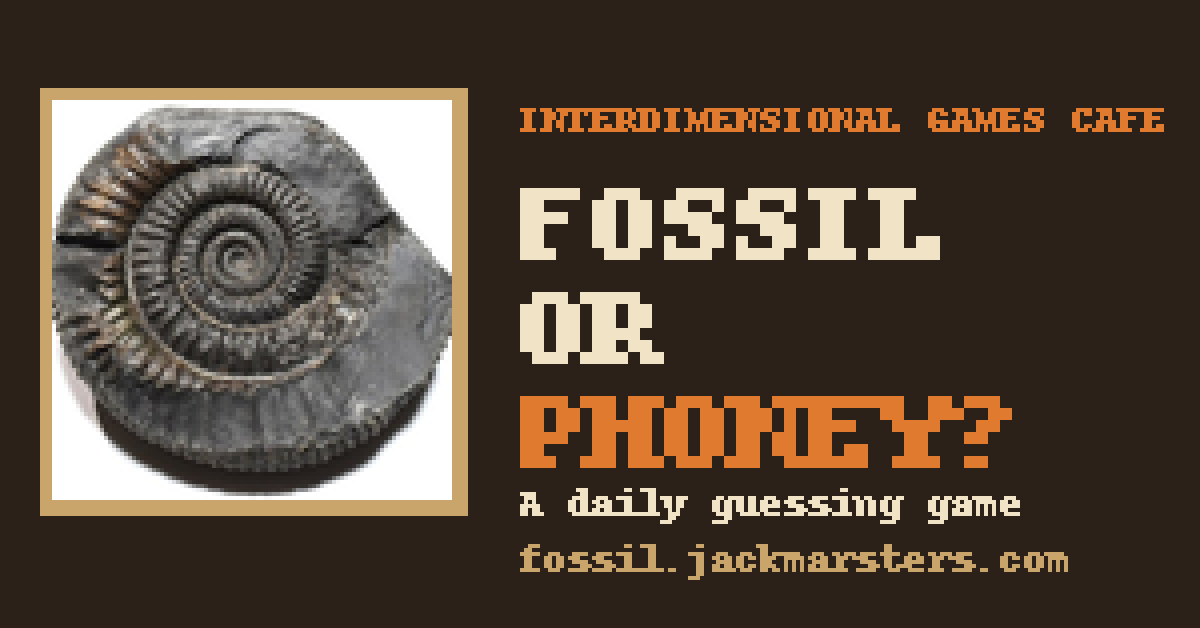
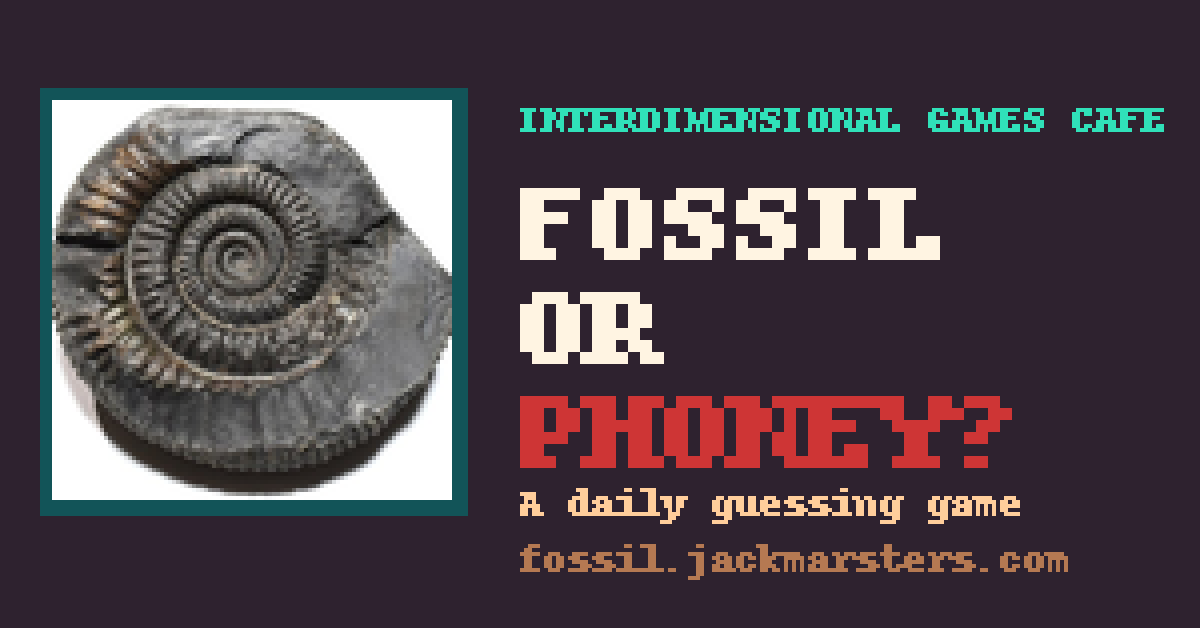
Restyle with Jersey 10 and the Quintino Pixels UI pack
Matches fiddle.jackmarsters.com: Jersey 10 for all text (scaled 115%,
no fake bold), parchment 9-slice panels, the dark teal table frame
around photos, teal/gold/red/wood pack buttons (Fossil gold, Phoney
red), the scroll banner for the test mode bar, and the pixel mouse
pointers. Colours follow the pack's palette; the link-preview card is
recoloured to match.

diff --git a/css/style.css b/css/style.css
@@ -1,22 +1,46 @@
 /* Fossil or Phoney: styles.
-   All colours live here as variables, so the theme can be changed in one place. */
+   All colours live here as variables, so the theme can be changed in one place.
+   Frames and buttons come from the Pixel Art Fantasy UI Pack by Quintino Pixels
+   (CC0), the same pack as fiddle.jackmarsters.com. Each piece is a stretchable
+   9-slice frame (border-image), so it fits any size with crisp pixels. */
 
 :root {
-  --bg: #2b2118;           /* dark earth */
-  --panel: #f1e3c6;        /* sandstone */
-  --panel-edge: #c9a46b;   /* darker sandstone */
-  --panel-deep: #e2cda3;   /* shaded sandstone */
-  --ink: #2b2118;
-  --ink-soft: #6b5640;
-  --accent: #e07a2e;       /* amber orange */
-  --accent-dark: #a9541a;
-  --alt: #5d7a4a;          /* moss green */
-  --alt-dark: #3e5531;
-  --light: #f1e3c6;
+  --bg: #2e222f;           /* the pack's dark outline colour */
+  --panel: #ffce9b;        /* parchment */
+  --panel-edge: #b57952;   /* parchment edge */
+  --panel-deep: #f2b880;   /* shaded parchment */
+  --ink: #3b2410;          /* dark brown text */
+  --ink-soft: #7a5536;
+  --accent: #b8430a;       /* burnt orange, readable on parchment */
+  --accent-dark: #8a2f05;
+  --alt: #125458;          /* deep teal from the table frame */
+  --alt-dark: #0b3638;
+  --teal: #30e1b9;
+  --light: #fff4e2;
   --pixel: 4px;            /* thickness of pixel-style borders */
 
-  --font-display: "Jersey 10", system-ui, sans-serif;
-  --font-body: "Pixelify Sans", system-ui, sans-serif;
+  --font-display: "FOP Jersey", "Jersey 10", system-ui, sans-serif;
+  --font-body: "FOP Jersey", "Jersey 10", system-ui, sans-serif;
+}
+
+/* Font: Jersey 10 (Google Fonts, Open Font License) for everything, as on
+   fiddle.jackmarsters.com. It's drawn smaller than most fonts, so "FOP Jersey"
+   scales it 115%. If these files ever move, the plain "Jersey 10" from the
+   Google Fonts link takes over (just a little smaller). It has only one
+   weight, so fake bold is switched off and bold text uses colour instead. */
+@font-face {
+  font-family: "FOP Jersey";
+  src: url("https://fonts.gstatic.com/s/jersey10/v4/GftH7vZKsggXMf9n_J5n_5jh.woff2") format("woff2");
+  unicode-range: U+0000-00FF, U+0131, U+0152-0153, U+02BB-02BC, U+02C6, U+02DA, U+02DC, U+0304, U+0308, U+0329, U+2000-206F, U+20AC, U+2122, U+2191, U+2193, U+2212, U+2215, U+FEFF, U+FFFD;
+  size-adjust: 115%;
+  font-display: swap;
+}
+@font-face {
+  font-family: "FOP Jersey";
+  src: url("https://fonts.gstatic.com/s/jersey10/v4/GftH7vZKsggXMf9n_J5n8Zjh-1w.woff2") format("woff2");
+  unicode-range: U+0100-02BA, U+02BD-02C5, U+02C7-02CC, U+02CE-02D7, U+02DD-02FF, U+1D00-1DBF, U+1E00-1E9F, U+1EF2-1EFF, U+2020, U+20A0-20AB, U+20AD-20C4, U+2113, U+2C60-2C7F, U+A720-A7FF;
+  size-adjust: 115%;
+  font-display: swap;
 }
 
 * { box-sizing: border-box; }
@@ -31,9 +55,17 @@ body {
   background: var(--bg);
   color: var(--ink);
   font-family: var(--font-body);
-  font-size: 1.05rem;
-  line-height: 1.5;
+  font-size: 1.1rem;
+  line-height: 1.35;
+  letter-spacing: 0.02em;
+  font-synthesis: none;
+  font-variant-ligatures: none;
 }
+b, strong { font-weight: normal; color: var(--accent-dark); }
+
+/* Pixel mouse pointers, as on fiddle.jackmarsters.com. */
+html, body { cursor: url("../assets/ui/cursor-arrow.png") 6 2, auto; }
+button, a, select, summary, input[type="range"] { cursor: url("../assets/ui/cursor-hand.png") 12 1, pointer; }
 
 .card {
   width: 100%;
@@ -50,7 +82,7 @@ footer {
 
 .eyebrow {
   margin: 0;
-  color: var(--accent);
+  color: var(--teal);
   font-size: 0.9rem;
   letter-spacing: 0.08em;
   text-transform: uppercase;
@@ -76,12 +108,16 @@ h2 {
 
 /* ---------- Panels ---------- */
 
+/* Parchment frame from the UI pack. */
 .panel {
-  background: var(--panel);
-  border: var(--pixel) solid var(--panel-edge);
-  /* A hard drop shadow with no blur keeps the pixel-art look. */
-  box-shadow: var(--pixel) var(--pixel) 0 #000;
-  padding: 16px 20px;
+  border-style: solid;
+  border-width: 16px;
+  border-image: url("../assets/ui/panel_parchment.png") 8 fill / 16px stretch;
+  image-rendering: pixelated;
+  padding: 6px 10px 8px;
+}
+@media (max-width: 480px) {
+  .panel { border-width: 12px; border-image-width: 12px; padding: 4px 6px 6px; }
 }
 
 .panel p { margin: 0 0 8px; }
@@ -112,13 +148,16 @@ h2 {
 
 /* ---------- Photos ---------- */
 
+/* Photos sit in the pack's dark teal "display case" frame. */
 .photo {
   display: block;
   width: 100%;
   aspect-ratio: 4 / 3;
   margin: 8px 0 12px;
-  border: var(--pixel) solid var(--ink);
-  background: var(--ink);
+  border-style: solid;
+  border-width: 18px;
+  border-image: url("../assets/ui/panel_table.png") 12 fill / 18px stretch;
+  background: var(--alt);
   /* Shows the whole photo, letterboxed on the dark background, whatever its shape. */
   object-fit: contain;
   image-rendering: pixelated;
@@ -138,36 +177,36 @@ h2 {
   border: 2px solid var(--panel-edge);
 }
 
-.clue { font-weight: 600; }
+.clue { font-size: 1.2rem; }
 .found span { color: var(--ink-soft); }
 
-/* ---------- Buttons ---------- */
+/* ---------- Buttons (UI pack: teal by default, gold, red, wood) ---------- */
 
 .btn {
   font: inherit;
-  font-weight: 600;
-  cursor: pointer;
-  padding: 10px 18px;
-  color: var(--light);
-  background: var(--accent);
-  border: var(--pixel) solid var(--accent-dark);
-  box-shadow: 0 var(--pixel) 0 var(--accent-dark);
+  font-size: 1.25rem;
+  line-height: 1.2;
+  padding: 4px 12px;
+  color: #0f302a;
+  background: none;
+  border-style: solid;
+  border-width: 8px;
+  border-image: url("../assets/ui/button_teal.png") 4 fill / 8px stretch;
+  image-rendering: pixelated;
   transition: transform 60ms;
 }
-.btn:hover { filter: brightness(1.08); }
-.btn:active { transform: translateY(var(--pixel)); box-shadow: none; }
+.btn:hover { filter: brightness(1.1); }
+.btn:active { transform: translateY(2px); }
 .btn:focus-visible { outline: 3px dashed var(--ink); outline-offset: 3px; }
 
-.btn-alt {
-  background: var(--alt);
-  border-color: var(--alt-dark);
-  box-shadow: 0 var(--pixel) 0 var(--alt-dark);
-}
+.btn-gold { border-image-source: url("../assets/ui/button_gold.png"); color: var(--ink); }
+.btn-red { border-image-source: url("../assets/ui/button_red.png"); color: var(--light); }
+.btn-wood { border-image-source: url("../assets/ui/button_wood.png"); color: var(--light); }
 
 .btn[aria-pressed="true"] {
-  transform: translateY(var(--pixel));
-  box-shadow: none;
+  transform: translateY(2px);
   outline: 3px solid var(--ink);
+  outline-offset: 2px;
 }
 
 .choice {
@@ -246,10 +285,7 @@ input[type="range"] {
   border-top: 2px dashed var(--panel-edge);
 }
 
-.read-more a {
-  color: var(--accent-dark);
-  font-weight: 600;
-}
+.read-more a { color: var(--accent-dark); }
 
 .credit {
   font-size: 0.75rem;
@@ -400,6 +436,7 @@ footer p {
   gap: 16px;
 }
 
+/* The test mode bar uses the pack's scroll banner. */
 .test-banner {
   position: sticky;
   top: 0;
@@ -409,15 +446,18 @@ footer p {
   margin: 0 auto 12px;
   display: flex;
   flex-wrap: wrap;
-  gap: 8px 16px;
+  gap: 4px 16px;
   align-items: center;
   justify-content: center;
-  padding: 6px 12px;
-  background: var(--accent);
-  color: var(--light);
-  border: var(--pixel) solid var(--accent-dark);
+  padding: 0 8px;
+  color: var(--ink);
+  border-style: solid;
+  border-width: 8px 12px;
+  border-image: url("../assets/ui/banner.png") 4 6 fill / 8px 12px stretch;
+  image-rendering: pixelated;
 }
-.test-banner .link-btn { color: var(--light); }
+.test-banner strong { color: var(--accent-dark); }
+.test-banner .link-btn { color: var(--ink); }
 
 .link-btn {
   font: inherit;
@@ -429,7 +469,7 @@ footer p {
   cursor: pointer;
 }
 
-.btn-small { padding: 4px 12px; }
+.btn-small { padding: 0 8px; border-width: 6px; border-image-width: 6px; }
 
 .test-answer {
   background: var(--panel-deep);

diff --git a/js/main.js b/js/main.js
@@ -149,8 +149,8 @@ function showSpecimen(index) {
 
       <p class="question">Real fossil, or phoney?</p>
       <div class="choice">
-        <button class="btn" type="button" data-call="fossil" aria-pressed="false">🦴 Fossil</button>
-        <button class="btn btn-alt" type="button" data-call="phoney">🎭 Phoney</button>
+        <button class="btn btn-gold" type="button" data-call="fossil" aria-pressed="false">🦴 Fossil</button>
+        <button class="btn btn-red" type="button" data-call="phoney">🎭 Phoney</button>
       </div>
 
       <div class="guess" hidden>
@@ -386,9 +386,9 @@ function showTestMenu() {
     <section class="panel test-panel">
       <h2>Play any day</h2>
       <div class="test-day">
-        <button class="btn btn-small" type="button" id="day-prev" aria-label="Previous day">◀</button>
+        <button class="btn btn-small btn-wood" type="button" id="day-prev" aria-label="Previous day">◀</button>
         <label>Day <input type="number" id="test-day" min="1" value="${today}"></label>
-        <button class="btn btn-small" type="button" id="day-next" aria-label="Next day">▶</button>
+        <button class="btn btn-small btn-wood" type="button" id="day-next" aria-label="Next day">▶</button>
       </div>
       <p class="test-day-info" id="test-day-info"></p>
       <button class="btn" type="button" id="play-day">Play this day</button>

diff --git a/index.html b/index.html
@@ -20,7 +20,7 @@
 
   <link rel="preconnect" href="https://fonts.googleapis.com">
   <link rel="preconnect" href="https://fonts.gstatic.com" crossorigin>
-  <link href="https://fonts.googleapis.com/css2?family=Jersey+10&family=Pixelify+Sans:wght@400;600&display=swap" rel="stylesheet">
+  <link href="https://fonts.googleapis.com/css2?family=Jersey+10&display=swap" rel="stylesheet">
   <link rel="stylesheet" href="css/style.css">
 </head>
 <body>

diff --git a/tools/make-social-card.py b/tools/make-social-card.py
@@ -9,7 +9,7 @@ from PIL import Image, ImageDraw, ImageFont
 GAME_DIR = Path(__file__).resolve().parent.parent
 SCALE = 4
 W, H = 300, 157  # x4 = 1200 x 628
-BG, PANEL, EDGE, INK, LIGHT, ACCENT = "#2b2118", "#f1e3c6", "#c9a46b", "#2b2118", "#f1e3c6", "#e07a2e"
+BG, PANEL, EDGE, INK, LIGHT, ACCENT, TEAL = "#2e222f", "#ffce9b", "#b57952", "#3b2410", "#fff4e2", "#ce3535", "#30e1b9"
 
 font = ImageFont.load_default_imagefont()  # a tiny bitmap font: perfect for pixel art
 
@@ -26,7 +26,7 @@ card = Image.new("RGB", (W, H), BG)
 draw = ImageDraw.Draw(card)
 
 # Photo panel on the left: a pixelated ammonite.
-draw.rectangle([10, 22, 116, 128], fill=EDGE)
+draw.rectangle([10, 22, 116, 128], fill="#125458")
 photo = Image.open(GAME_DIR / "assets" / "ammonite-dactylioceras.jpg").convert("RGB")
 side = min(photo.size)
 photo = photo.crop(((photo.width - side) // 2, (photo.height - side) // 2,
@@ -35,7 +35,7 @@ card.paste(photo, (13, 25))
 
 # Title and tagline on the right.
 x = 130
-card.paste(big_text("INTERDIMENSIONAL GAMES CAFE", ACCENT, 1), (x, 24), big_text("INTERDIMENSIONAL GAMES CAFE", ACCENT, 1))
+card.paste(big_text("INTERDIMENSIONAL GAMES CAFE", TEAL, 1), (x, 24), big_text("INTERDIMENSIONAL GAMES CAFE", TEAL, 1))
 for i, (word, colour) in enumerate([("FOSSIL", LIGHT), ("OR", LIGHT), ("PHONEY?", ACCENT)]):
     layer = big_text(word, colour, 3)
     card.paste(layer, (x, 38 + i * 26), layer)

diff --git a/README.md b/README.md
@@ -182,7 +182,7 @@ security, and anyone technical could bypass it.
 ```
 fossil-or-phoney/
 ├── index.html           the page
-├── css/style.css        pixel-art styling (Jersey 10 + Pixelify Sans)
+├── css/style.css        pixel-art styling (Jersey 10, UI pack frames and buttons)
 ├── js/main.js           the screens: specimen, guess, reveal, results
 ├── js/daily.js          day number, seeded randomness, today's 3 specimens
 ├── js/timeline.js       slider scale, geological periods, age wording
@@ -214,8 +214,12 @@ The link-preview image (`assets/social-card.png`) is made by
 
 ## Credits
 
-- Fonts: [Jersey 10](https://fonts.google.com/specimen/Jersey+10) and
-  [Pixelify Sans](https://fonts.google.com/specimen/Pixelify+Sans) (SIL Open Font License).
+- Font: [Jersey 10](https://fonts.google.com/specimen/Jersey+10) (SIL Open Font
+  License), as on [fiddle.jackmarsters.com](https://fiddle.jackmarsters.com).
+- Frames, buttons, banner and mouse pointers: the
+  [Pixel Art Fantasy UI Pack by Quintino Pixels](https://quintino-pixels.itch.io/pixel-art-ui-elements)
+  (CC0), cut into `assets/ui/` (the same pieces as Riddle-da-Fiddle; the pointers
+  are from [1-bit Pixel Icons by Nikoichu](https://nikoichu.itch.io/pixel-icons), CC0).
 - Specimen photos are from [Wikimedia Commons](https://commons.wikimedia.org/).
   They have been resized and pixelated, and some have been cropped to remove
   labels. Each photo is credited on its reveal screen, with a link to its page.
